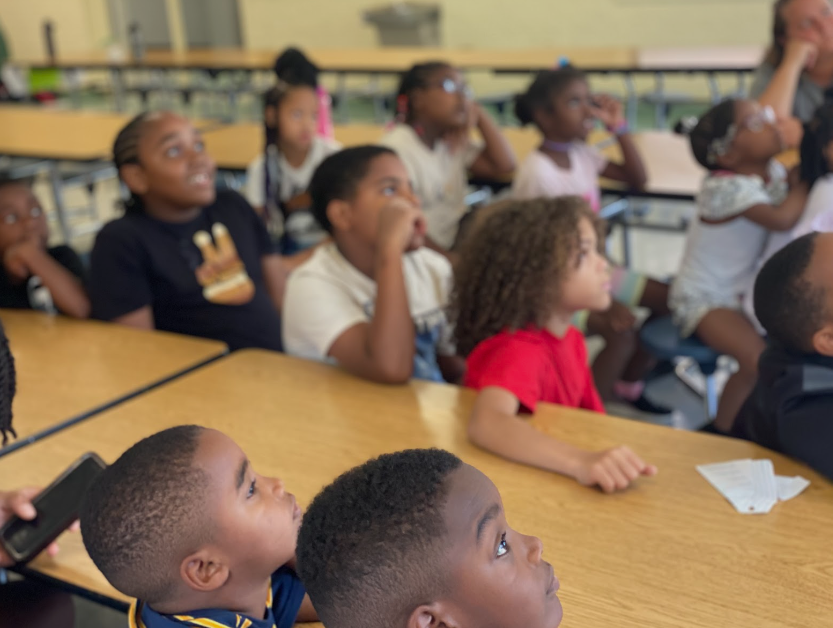
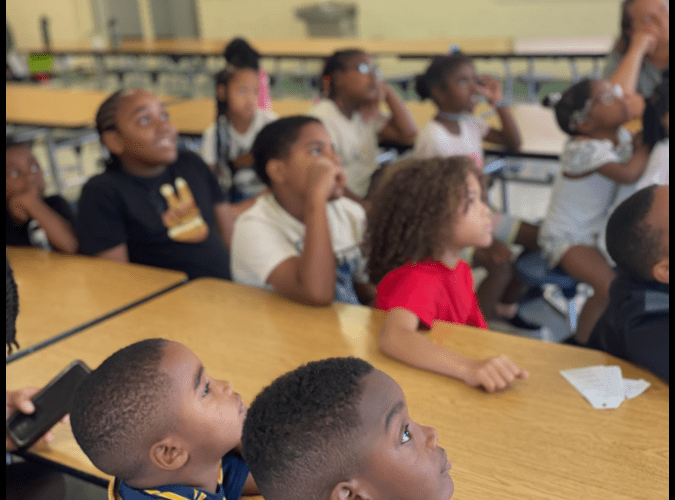
family update

diff --git a/css/family-light-mode.css b/css/family-light-mode.css
@@ -96,6 +96,14 @@ body {
   background-color: var(--bg-color);
   margin: 0 10% 0 10%;
   font-family: 'Open Sans', sans-serif;
+  padding: 0;
+}
+
+img {
+  max-width: 100%;
+  height: auto;
+  display: block;
+  margin: 0 auto; /* Center the image horizontally */
 }
     
 header {
@@ -173,14 +181,14 @@ footer {
 }
 
 p {
-  font-size: 30px;
+  font-size: 200%;
   color: var(--txt-color);
   margin-left: 10px;
   margin-right: 10px;
 }
 
 ul {
-  font-size: 35px;
+  font-size: 300%;
   margin-left: 30px;
   color: var(--txt-color);
 }

diff --git a/family.html b/family.html
@@ -47,7 +47,7 @@
     <h2 class="title">Youth and Family</h2>
 
     <br>
-	<img src="images/kidsattable.png" alt="kidsattable" style="margin-left: 278px;" width="675px" height="500px">
+	<img src="images/kidsattable.png" alt="kidsattable" style="size: 50%;">
 
 	<p style="text-align: center;">
         The IAM Youth Program is a visionary program poised to revolutionize youth development across the foundational and unique age groups ranging from 7 to 24 years of age.	

diff --git a/css/family-dark-mode.css b/css/family-dark-mode.css
@@ -97,8 +97,9 @@ body {
   background-color: var(--bg-color);
   margin: 0 10% 0 10%;
   font-family: 'Open Sans', sans-serif;
+  padding: 0;
 }
-    
+
 header {
   float: center;
   background-color: var(--nav-bg-color);
@@ -184,4 +185,11 @@ ul {
   margin-top: 20px;
   margin-left: 30px;
   color: var(--txt-color);
+}
+
+img {
+  max-width: 100%;
+  height: auto;
+  display: block;
+  margin: 0 auto; /* Center the image horizontally */
 }
